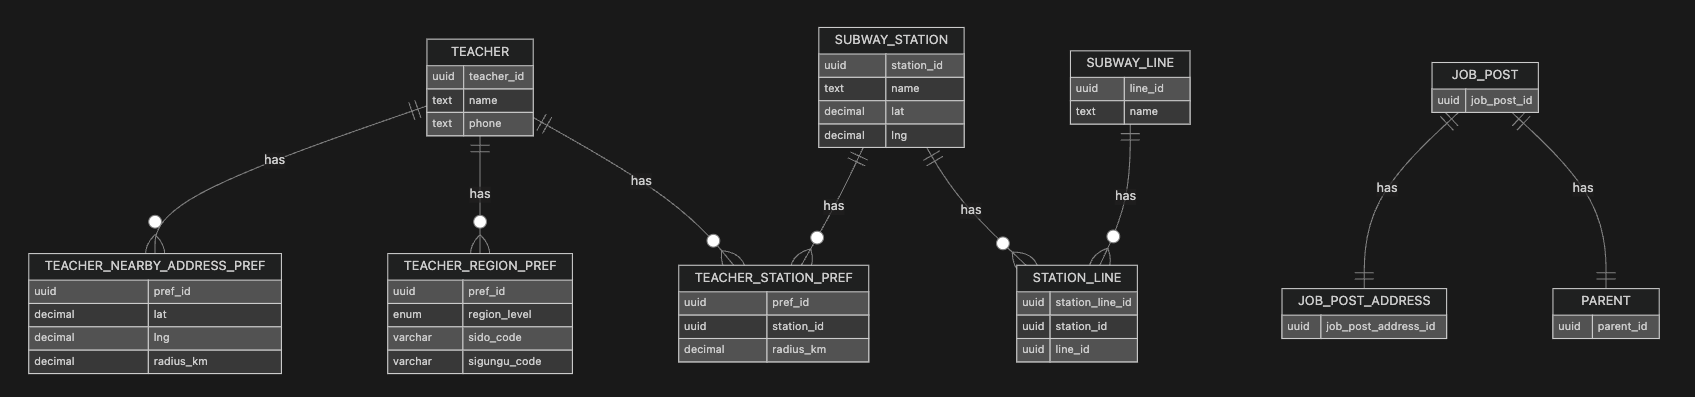
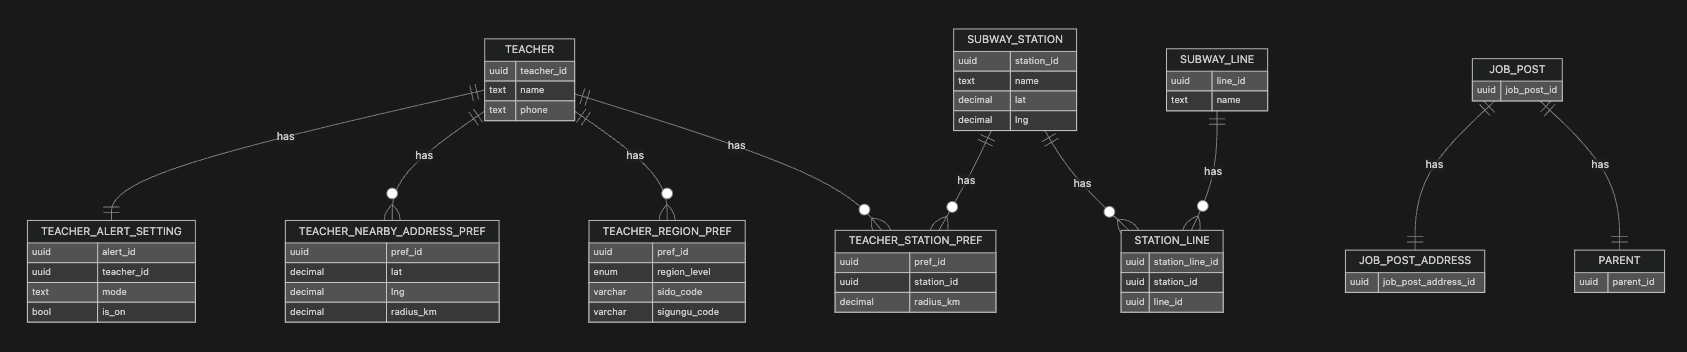
fix: 3개 설정 중 1개 설정에 대한 알림 로직 및 테이블 추가

diff --git a/src/parent/infrastructure/query/adpter/parent-teacher.adapter.spec.ts b/src/parent/infrastructure/query/adpter/parent-teacher.adapter.spec.ts
@@ -1,6 +1,7 @@
 import { GeocodingPort } from '@app/parent/application/query/port/geocoding.port';
 import { TeacherQueryPort } from '@app/teacher/application/query/port/teacher-query.port';
 import { ParentTeacherAdapter } from './parent-teacher.adapter';
+import { TEACHER_ALERT_MODE } from '@app/teacher/domain/enums/teacher-alert.type';
 
 describe('ParentTeacherAdapter', () => {
   const teacherPort: jest.Mocked<TeacherQueryPort> = {
@@ -9,6 +10,7 @@ describe('ParentTeacherAdapter', () => {
     findStationsWithin: jest.fn(),
     findTeachersByStationIds: jest.fn(),
     getContactsByIds: jest.fn(),
+    getAlertSettings: jest.fn(),
   } as any;
 
   const geocoding: jest.Mocked<GeocodingPort> = {
@@ -20,24 +22,25 @@ describe('ParentTeacherAdapter', () => {
   beforeEach(() => {
     jest.clearAllMocks();
     adapter = new ParentTeacherAdapter(teacherPort, geocoding);
+
+    teacherPort.getAlertSettings.mockResolvedValue([]);
   });
 
-  it('매칭이 전혀 없으면 []', async () => {
-    teacherPort.findNearbyAddressCandidates.mockResolvedValueOnce([]);
-    geocoding.reverse.mockResolvedValueOnce({}); // sido/sigungu 없음
-    teacherPort.findStationsWithin.mockResolvedValueOnce([]);
-    teacherPort.findTeachersByStationIds.mockResolvedValueOnce([]);
-    teacherPort.getContactsByIds.mockResolvedValueOnce([]);
+  // it('매칭이 전혀 없으면 []', async () => {
+  //   teacherPort.findNearbyAddressCandidates.mockResolvedValueOnce([]);
+  //   geocoding.reverse.mockResolvedValueOnce({}); // sido/sigungu 없음
+  //   teacherPort.findStationsWithin.mockResolvedValueOnce([]);
+  //   teacherPort.findTeachersByStationIds.mockResolvedValueOnce([]);
+  //   teacherPort.getContactsByIds.mockResolvedValueOnce([]);
 
-    const out = await adapter.recommend({ lat: 37.5, lng: 127.0 });
-    expect(out).toEqual([]);
-    expect(teacherPort.getContactsByIds).toHaveBeenCalledWith({ ids: [] });
-  });
+  //   const out = await adapter.recommend({ lat: 37.5, lng: 127.0 });
+  //   expect(out).toEqual([]);
+  // });
 
   it('세 경로(인근/지역/역) 합집합 후 연락처 반환', async () => {
     /**
      * t1 - 거리 0.5km
-     * t2 - 거리 2km
+     * t2 - 거리 2km(제외)
      */
 
     teacherPort.findNearbyAddressCandidates.mockResolvedValueOnce([
@@ -53,23 +56,42 @@ describe('ParentTeacherAdapter', () => {
     teacherPort.findStationsWithin.mockResolvedValueOnce([
       { id: 's1', lat: 37.501, lng: 127.001 } as any,
     ]);
+
     teacherPort.findTeachersByStationIds.mockResolvedValueOnce([
       { teacherId: 't4', stationId: 's1', radiusKm: 1 },
     ]);
 
-    teacherPort.getContactsByIds.mockResolvedValueOnce([
-      { id: 't1', name: 'A', phone: '0101' },
-      { id: 't3', name: 'B', phone: '0103' },
-      { id: 't4', name: 'C', phone: '0104' },
+    teacherPort.getAlertSettings.mockResolvedValueOnce([
+      { teacherId: 't1', mode: TEACHER_ALERT_MODE.NEARBY }, // 인근만 허용
+      { teacherId: 't2', mode: TEACHER_ALERT_MODE.NEARBY }, // 멀어서 어차피 후보에서 제외
+      { teacherId: 't3', mode: TEACHER_ALERT_MODE.REGION }, // 지역만 허용
+      { teacherId: 't4', mode: TEACHER_ALERT_MODE.STATION }, // 역만 허용
     ]);
 
-    const out = await adapter.recommend({ lat: 37.5, lng: 127.0 });
+    teacherPort.getContactsByIds.mockResolvedValueOnce([
+      { id: 't1', name: 'A', phone: '01012345678' },
+      { id: 't3', name: 'B', phone: '01012345679' },
+      { id: 't4', name: 'C', phone: '01012345677' },
+    ]);
+
+    const res = await adapter.recommend({ lat: 37.5, lng: 127.0 });
+
+    // 후보로 잡힌 모든 id에 대해 알림 모드를 조회했는지 확인
+    const calledIds = (teacherPort.getAlertSettings as jest.Mock).mock
+      .calls[0][0].teacherIds;
+
+    expect(new Set(calledIds)).toEqual(new Set(['t1', 't3', 't4']));
+
+    expect(teacherPort.getContactsByIds).toHaveBeenCalledTimes(1);
+    expect(
+      new Set((teacherPort.getContactsByIds as jest.Mock).mock.calls[0][0].ids),
+    ).toEqual(new Set(['t1', 't3', 't4']));
 
     // t1, t3, t4만 포함(가까움/지역/역반경)
-    expect(out).toEqual([
-      { name: 'A', phone: '0101' },
-      { name: 'B', phone: '0103' },
-      { name: 'C', phone: '0104' },
+    expect(res).toEqual([
+      { name: 'A', phone: '01012345678' },
+      { name: 'B', phone: '01012345679' },
+      { name: 'C', phone: '01012345677' },
     ]);
   });
 });

diff --git a/src/teacher/infrastructure/query/teacher-query.adapter.spec.ts b/src/teacher/infrastructure/query/teacher-query.adapter.spec.ts
@@ -7,6 +7,8 @@ import { FindOperator, In } from 'typeorm';
 import { Repository } from 'typeorm/repository/Repository';
 import { TeacherQueryAdapter } from './teacher-query.adapter';
 import { bboxAround } from '@app/shared/utils/geo.util';
+import { TeacherAlertSetting } from '@app/teacher/domain/entities/teacher-alert-setting.entity';
+import { TEACHER_ALERT_MODE } from '@app/teacher/domain/enums/teacher-alert.type';
 
 function mockRepo<T>() {
   return {
@@ -22,6 +24,7 @@ describe('TeacherQueryAdapter', () => {
   let regionPrefRepo: jest.Mocked<Repository<TeacherRegionPref>>;
   let stationPrefRepo: jest.Mocked<Repository<TeacherStationPref>>;
   let subwayRepo: jest.Mocked<Repository<SubwayStation>>;
+  let alertRepo: jest.Mocked<Repository<TeacherAlertSetting>>;
 
   beforeEach(() => {
     teacherRepo = mockRepo<Teacher>();
@@ -29,6 +32,7 @@ describe('TeacherQueryAdapter', () => {
     regionPrefRepo = mockRepo<TeacherRegionPref>();
     stationPrefRepo = mockRepo<TeacherStationPref>();
     subwayRepo = mockRepo<SubwayStation>();
+    alertRepo = mockRepo<TeacherAlertSetting>();
 
     adapter = new TeacherQueryAdapter(
       teacherRepo,
@@ -36,6 +40,7 @@ describe('TeacherQueryAdapter', () => {
       regionPrefRepo,
       stationPrefRepo,
       subwayRepo,
+      alertRepo,
     );
   });
 
@@ -146,5 +151,22 @@ describe('TeacherQueryAdapter', () => {
     const res = await adapter.getContactsByIds({ ids: ['t1'] });
     expect(teacherRepo.find).toHaveBeenCalled();
     expect(res).toEqual([{ id: 't1', name: '김째깍', phone: '01012345678' }]);
+  });
+
+  it('getAlertSettings: id가 없으면 []', async () => {
+    const res = await adapter.getAlertSettings({ teacherIds: [] } as any);
+
+    expect(res).toEqual([]);
+  });
+
+  it('getAlertSettings: In 조회', async () => {
+    alertRepo.find.mockResolvedValueOnce([
+      { teacherId: 't1', mode: TEACHER_ALERT_MODE.NEARBY } as any,
+    ]);
+
+    const res = await adapter.getAlertSettings({ teacherIds: ['t1'] } as any);
+
+    expect(alertRepo.find).toHaveBeenCalled();
+    expect(res).toEqual([{ teacherId: 't1', mode: TEACHER_ALERT_MODE.NEARBY }]);
   });
 });

diff --git a/src/parent/infrastructure/query/adpter/parent-teacher.adapter.ts b/src/parent/infrastructure/query/adpter/parent-teacher.adapter.ts
@@ -9,6 +9,7 @@ import {
 import { haversineKm } from '@app/shared/utils/geo.util';
 import { TeacherQueryPort } from '@app/teacher/application/query/port/teacher-query.port';
 import { TEACHER_QUERY_PORT } from '@app/teacher/application/query/port/teacher-query.port.token';
+import { TEACHER_ALERT_MODE } from '@app/teacher/domain/enums/teacher-alert.type';
 
 @Injectable()
 export class ParentTeacherAdapter implements ParentTeacherPort {
@@ -49,7 +50,7 @@ export class ParentTeacherAdapter implements ParentTeacherPort {
         sigunguCode: sigunguCode,
       });
     } else if (sidoCode) {
-      await this.teacherPort.findRegionTeachers({
+      regions = await this.teacherPort.findRegionTeachers({
         level: 'SIDO',
         sidoCode: sidoCode,
       });
@@ -77,14 +78,35 @@ export class ParentTeacherAdapter implements ParentTeacherPort {
       })
       .map((p) => p.teacherId);
 
-    const uniqueTeacherIds = new Set([
-      ...nearbyTeacherIds,
-      ...regionTeacherIds,
-      ...stationTeacherIds,
+    const candidateIds = Array.from(
+      new Set([...nearbyTeacherIds, ...regionTeacherIds, ...stationTeacherIds]),
+    );
+
+    if (!candidateIds.length) return [];
+
+    // NOTE: 데이터양과 응답시간을 추적하여 추후 query level(join)로 변경 가능
+    const settings = await this.teacherPort.getAlertSettings({
+      teacherIds: candidateIds,
+    });
+
+    const modeMap = new Map((settings ?? []).map((s) => [s.teacherId, s.mode]));
+
+    const uniqueIds = new Set<string>([
+      ...nearbyTeacherIds.filter(
+        (id) => modeMap.get(id) === TEACHER_ALERT_MODE.NEARBY,
+      ),
+      ...regionTeacherIds.filter(
+        (id) => modeMap.get(id) === TEACHER_ALERT_MODE.REGION,
+      ),
+      ...stationTeacherIds.filter(
+        (id) => modeMap.get(id) === TEACHER_ALERT_MODE.STATION,
+      ),
     ]);
 
+    if (!uniqueIds.size) return [];
+
     const contacts = await this.teacherPort.getContactsByIds({
-      ids: Array.from(uniqueTeacherIds),
+      ids: [...uniqueIds],
     });
 
     return contacts.map((c) => ({ name: c.name, phone: c.phone }));

diff --git a/src/teacher/infrastructure/query/teacher-query.adapter.ts b/src/teacher/infrastructure/query/teacher-query.adapter.ts
@@ -12,7 +12,10 @@ import {
   TeacherStationPrefRcord,
   FindTeachersByIdsQuery,
   TeacherContactRecord,
+  FindTeacherAlertSettingsQuery,
+  TeacherAlertSettingRecord,
 } from '@app/teacher/application/query/port/teacher-query.port.type';
+import { TeacherAlertSetting } from '@app/teacher/domain/entities/teacher-alert-setting.entity';
 import { TeacherNearbyAddressPref } from '@app/teacher/domain/entities/teacher-nearby-address-pref.entity';
 import { TeacherRegionPref } from '@app/teacher/domain/entities/teacher-region-preff.entity';
 import { TeacherStationPref } from '@app/teacher/domain/entities/teacher-station-pref.entity';
@@ -38,6 +41,9 @@ export class TeacherQueryAdapter implements TeacherQueryPort {
 
     @InjectRepository(SubwayStation)
     private readonly subwayRepo: Repository<SubwayStation>,
+
+    @InjectRepository(TeacherAlertSetting)
+    private readonly alertRepo: Repository<TeacherAlertSetting>,
   ) {}
 
   public async findNearbyAddressCandidates(
@@ -134,5 +140,20 @@ export class TeacherQueryAdapter implements TeacherQueryPort {
     });
 
     return rows.map((r) => ({ id: r.id, name: r.name, phone: r.phone }));
+  }
+
+  public async getAlertSettings(
+    q: FindTeacherAlertSettingsQuery,
+  ): Promise<TeacherAlertSettingRecord[]> {
+    const { teacherIds } = q;
+
+    if (!teacherIds.length) return [];
+
+    const rows = await this.alertRepo.find({
+      select: { teacherId: true, mode: true },
+      where: { teacherId: In(teacherIds), isOn: true },
+    });
+
+    return rows.map((r) => ({ teacherId: r.teacherId, mode: r.mode }));
   }
 }

diff --git a/src/teacher/application/query/port/teacher-query.port.ts b/src/teacher/application/query/port/teacher-query.port.ts
@@ -2,11 +2,13 @@ import {
   FindNearbyAddressCandidatesQuery,
   FindRegionTeachersQuery,
   FindStationsWithinQuery,
+  FindTeacherAlertSettingsQuery,
   FindTeachersByIdsQuery,
   FindTeachersByStationIdsQuery,
   NearByAddressPrefRecod,
   RegionTeacherRecord,
   StationWithinRecord,
+  TeacherAlertSettingRecord,
   TeacherContactRecord,
   TeacherStationPrefRcord,
 } from './teacher-query.port.type';
@@ -29,4 +31,8 @@ export interface TeacherQueryPort {
   ): Promise<TeacherStationPrefRcord[]>;
 
   getContactsByIds(q: FindTeachersByIdsQuery): Promise<TeacherContactRecord[]>;
+
+  getAlertSettings(
+    q: FindTeacherAlertSettingsQuery,
+  ): Promise<TeacherAlertSettingRecord[]>;
 }

diff --git a/src/teacher/domain/entities/teacher-alert-setting.entity.ts b/src/teacher/domain/entities/teacher-alert-setting.entity.ts
@@ -1,0 +1,20 @@
+import { Column, CreateDateColumn, Entity, PrimaryColumn } from 'typeorm';
+import { TeacherAlertMode } from '../enums/teacher-alert.type';
+
+@Entity({ name: 'teacher_alert_setting' })
+export class TeacherAlertSetting {
+  @PrimaryColumn('uuid', { default: () => 'uuid_generate_v7()' })
+  id!: string;
+
+  @Column('uuid', { name: 'teacher_id', nullable: false })
+  teacherId!: string;
+
+  @Column('text', { nullable: false })
+  mode!: TeacherAlertMode;
+
+  @Column('boolean', { name: 'is_on', nullable: false, default: true })
+  isOn = true;
+
+  @CreateDateColumn({ name: 'created_at', type: 'timestamp', nullable: false })
+  createdAt!: Date;
+}

diff --git a/src/teacher/teacher.module.ts b/src/teacher/teacher.module.ts
@@ -8,6 +8,7 @@ import { TeacherQueryAdapter } from './infrastructure/query/teacher-query.adapte
 import { TEACHER_QUERY_PORT } from './application/query/port/teacher-query.port.token';
 import { ReferenceModule } from 'src/reference/reference.module';
 import { AuthModule } from 'src/shared/auth/auth.module';
+import { TeacherAlertSetting } from './domain/entities/teacher-alert-setting.entity';
 
 @Module({
   imports: [
@@ -16,6 +17,7 @@ import { AuthModule } from 'src/shared/auth/auth.module';
       TeacherNearbyAddressPref,
       TeacherRegionPref,
       TeacherStationPref,
+      TeacherAlertSetting,
     ]),
     AuthModule,
     ReferenceModule,

diff --git a/src/teacher/application/query/port/teacher-query.port.type.ts b/src/teacher/application/query/port/teacher-query.port.type.ts
@@ -1,3 +1,5 @@
+import { TeacherAlertMode } from '@app/teacher/domain/enums/teacher-alert.type';
+
 export type FindNearbyAddressCandidatesQuery = Readonly<{
   lat: number;
   lng: number;
@@ -40,4 +42,10 @@ export type TeacherContactRecord = Readonly<{
   id: string;
   name: string;
   phone: string;
+}>;
+
+export type FindTeacherAlertSettingsQuery = Readonly<{ teacherIds: string[] }>;
+export type TeacherAlertSettingRecord = Readonly<{
+  teacherId: string;
+  mode: TeacherAlertMode;
 }>;

diff --git a/src/teacher/domain/enums/teacher-alert.type.ts b/src/teacher/domain/enums/teacher-alert.type.ts
@@ -1,0 +1,8 @@
+export const TEACHER_ALERT_MODE = {
+  NEARBY: 'NEARBY',
+  REGION: 'REGION',
+  STATION: 'STATION',
+} as const;
+
+export type TeacherAlertMode =
+  (typeof TEACHER_ALERT_MODE)[keyof typeof TEACHER_ALERT_MODE];

diff --git a/README.md b/README.md
@@ -78,6 +78,19 @@ Table job_post {
   detail text
 }
 
+Table teacher_alert_setting {
+  id uuid [pk]
+  teacher_id uuid [ref: > teacher.id, not null, unique]
+  mode text [not null] // enum 'NEARBY', 'REGION', 'STATION'
+  is_on boolean [not null, default: true]
+  created_at timestamp [default: `now()`]
+
+  Indexes {
+    teacher_id
+    mode
+  }
+}
+
 Table teacher_nearby_address_pref {
   id uuid [pk]
   teacher_id uuid [ref: > teacher.id, not null]
@@ -188,6 +201,17 @@ CREATE TABLE job_post (
   job_post_address_id  UUID NOT NULL REFERENCES job_post_address(id),
   detail               TEXT
 );
+
+CREATE TABLE teacher_alert_setting (
+  id UUID PRIMARY KEY DEFAULT uuid_generate_v7(),
+  teacher_id UUID NOT NULL REFERENCES teacher(id) ON DELETE CASCADE UNIQUE,
+  mode TEXT NOT NULL,
+  is_on BOOLEAN NOT NULL DEFAULT TRUE,
+  created_at  TIMESTAMP NOT NULL DEFAULT NOW()
+);
+
+CREATE INDEX idx_tas_teacher_id ON teacher_alert_setting(teacher_id);
+CREATE INDEX idx_tas_mode ON teacher_alert_setting(mode);
 
 CREATE TABLE teacher_nearby_address_pref (
   id          UUID PRIMARY KEY DEFAULT uuid_generate_v7(),
